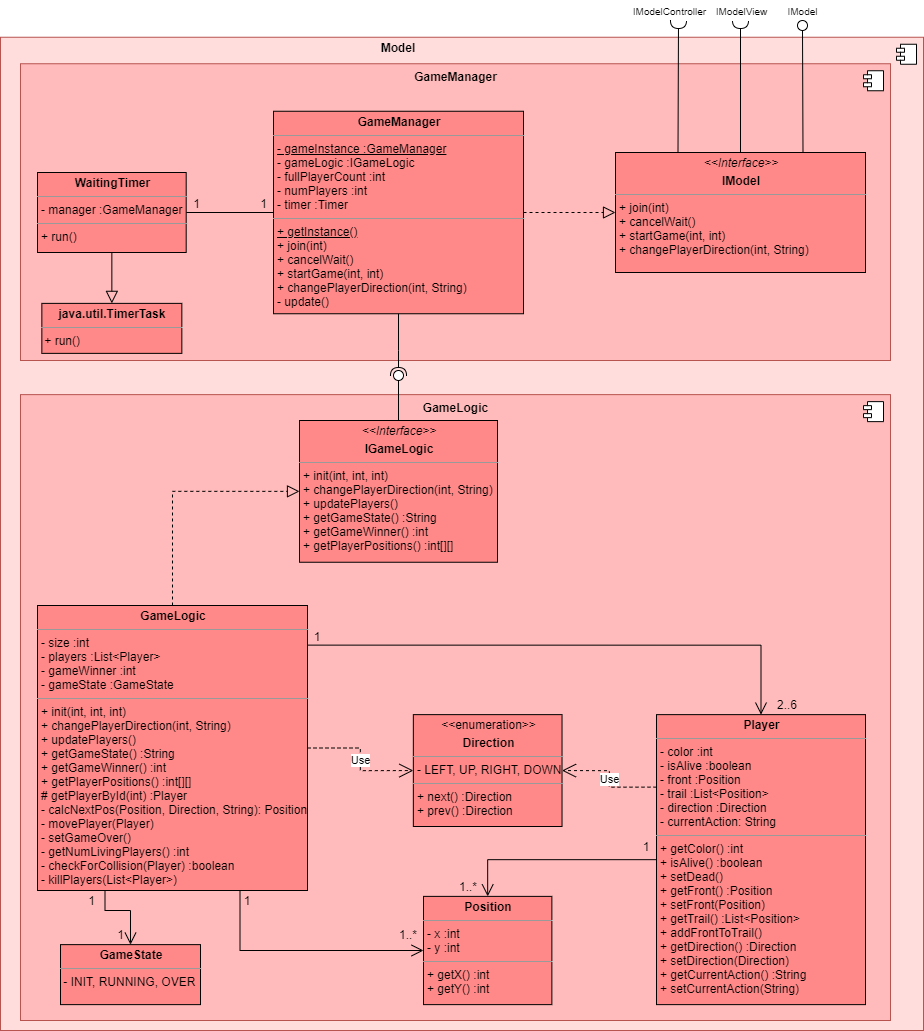
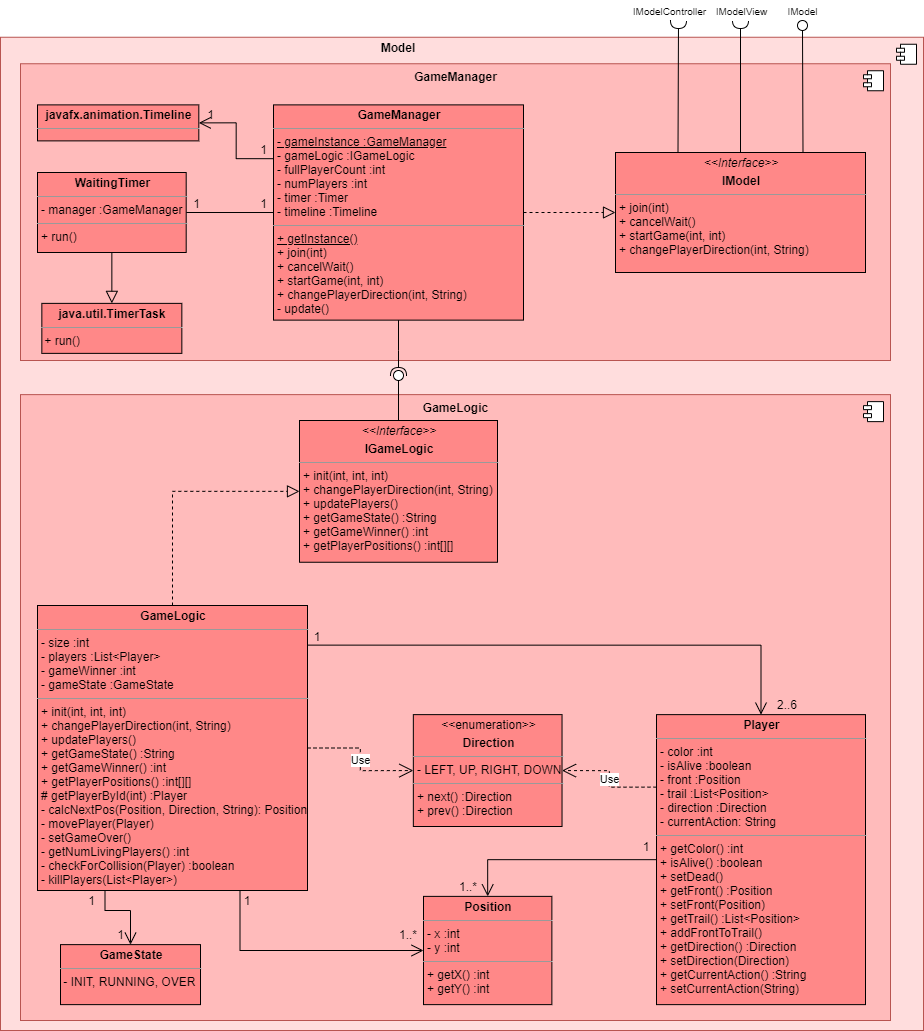
added gameSpeed and timeline in code, diagrams, doc

Changed region(s): [[0.2424, 0.0931, 0.5758, 0.3104], [0.0303, 0.0931, 0.2424, 0.1552]]

diff --git a/src/test/java/de/hawh/beta3/application/game/model/gamelogic/GameLogicTest.java b/src/test/java/de/hawh/beta3/application/game/model/gamelogic/GameLogicTest.java
@@ -16,7 +16,7 @@ class GameLogicTest {
     @BeforeEach
     void setUp() {
         gameLogic = new GameLogic();
-        gameLogic.init(4, 40, 3);
+        gameLogic.init(4, 40);
         players = gameLogic.getPlayerPositions();
     }
 
@@ -30,7 +30,7 @@ class GameLogicTest {
         assertEquals(startingPos.stream().distinct().count(), startingPos.size());
 
         //6 players
-        gameLogic.init(6, 40, 3);
+        gameLogic.init(6, 40);
         players = gameLogic.getPlayerPositions();
 
         startingPos = new ArrayList<>();
@@ -49,7 +49,7 @@ class GameLogicTest {
         assertEquals(startingPos.get(3), new Position(19, 39));
 
         //3 players size 53
-        gameLogic.init(4, 53, 3);
+        gameLogic.init(4, 53);
         players = gameLogic.getPlayerPositions();
         startingPos = new ArrayList<>();
         for (int[] p : players) startingPos.add(new Position(p[1], p[2]));
@@ -58,7 +58,7 @@ class GameLogicTest {
         assertEquals(startingPos.get(2), new Position(26, 0));
 
         //6 players size 40
-        gameLogic.init(6, 40, 3);
+        gameLogic.init(6, 40);
         players = gameLogic.getPlayerPositions();
         startingPos = new ArrayList<>();
         for (int[] p : players) startingPos.add(new Position(p[1], p[2]));
@@ -154,7 +154,7 @@ class GameLogicTest {
          * x x 2 x 1
          * x x x 1 1
          */
-        gameLogic.init(3, 5, 3);
+        gameLogic.init(3, 5);
         players = gameLogic.getPlayerPositions();
         gameLogic.changePlayerDirection(0, "left");
         gameLogic.changePlayerDirection(1, "left");
@@ -178,7 +178,7 @@ class GameLogicTest {
          * x x 3 3 x
          * x x 3 x x
          */
-        gameLogic.init(4, 5, 3);
+        gameLogic.init(4, 5);
         players = gameLogic.getPlayerPositions();
         gameLogic.updatePlayers();  //tick 1
         gameLogic.changePlayerDirection(2, "right");
@@ -196,7 +196,7 @@ class GameLogicTest {
     @Test
     void updatePlayersPlayerWinCollision() {
         //one player steers right twice and drives into wall --> other player wins
-        gameLogic.init(2, 40, 3);
+        gameLogic.init(2, 40);
         players = gameLogic.getPlayerPositions();
         gameLogic.changePlayerDirection(0, "right");
         gameLogic.updatePlayers();
@@ -211,7 +211,7 @@ class GameLogicTest {
     @Test
     void updatePlayersPlayerWinTwoCollisions() {
         //players 0 and 1 drive into one another --> player 2 wins
-        gameLogic.init(3, 5, 3);
+        gameLogic.init(3, 5);
         players = gameLogic.getPlayerPositions();
         gameLogic.updatePlayers();  //tick 1
         gameLogic.changePlayerDirection(2, "left"); //player 2 is clever
@@ -227,7 +227,7 @@ class GameLogicTest {
     @Test
     void updatePlayersTie() {
         //every player drives into one another
-        gameLogic.init(4, 5, 3);
+        gameLogic.init(4, 5);
         gameLogic.updatePlayers();  //tick 1
         gameLogic.updatePlayers();  //tick 2 --> collision in the middle so big its a Karambolage
         assertSame(gameLogic.getGameState(), "OVER");
@@ -243,7 +243,7 @@ class GameLogicTest {
          * x x x 3 3 x x
          * x x x 3 3 x x
          */
-        gameLogic.init(5, 7, 3);
+        gameLogic.init(5, 7);
         gameLogic.changePlayerDirection(0, "left");
         gameLogic.changePlayerDirection(4, "left");
         gameLogic.updatePlayers();  //tick 1

diff --git a/src/main/java/de/hawh/beta3/application/game/model/gamemanager/GameManager.java b/src/main/java/de/hawh/beta3/application/game/model/gamemanager/GameManager.java
@@ -8,9 +8,10 @@ import de.hawh.beta3.application.game.view.IModelView;
 import java.util.Timer;
 import java.util.TimerTask;
 
-//import javafx.animation.Animation;
-//import javafx.animation.KeyFrame;
-//import javafx.animation.Timeline;
+import javafx.animation.Animation;
+import javafx.animation.KeyFrame;
+import javafx.animation.Timeline;
+import javafx.util.Duration;
 
 public class GameManager implements IModel {
     private static GameManager gameInstance = new GameManager();
@@ -20,7 +21,7 @@ public class GameManager implements IModel {
     private int fullPlayerCount;
     private int numPlayers;
     private Timer timer = new Timer();
-    //private Timeline timeline
+    private Timeline timeline;
 
     private GameManager() {
         gameLogic = new GameLogic();
@@ -83,9 +84,12 @@ public class GameManager implements IModel {
      */
     @Override
     public void startGame(int size, int gameSpeed) {
-        gameLogic.init(numPlayers, size, gameSpeed);
-        //timeline = new Timeline(new KeyFrame(Duration.millis(200), e -> update()));
-        //timeline.setCycleCount(Animation.INDEFINITE);
+        gameLogic.init(numPlayers, size);
+        for (int[] p : gameLogic.getPlayerPositions()) {    //send starting positions to view
+            //modelView.updatePlayer(p[0], p[1], p[2], p[3]);
+        }
+        timeline = new Timeline(new KeyFrame(Duration.millis(gameSpeed), e -> update()));
+        timeline.setCycleCount(Animation.INDEFINITE);
     }
 
     /**
@@ -111,6 +115,7 @@ public class GameManager implements IModel {
             }
         } else if (gameLogic.getGameState().equals("OVER")) {
             //modelController.endGame(gameLogic.getGameWinner());
+            timeline.stop();
         }
     }
 }

diff --git a/src/main/java/de/hawh/beta3/application/game/model/gamelogic/GameLogic.java b/src/main/java/de/hawh/beta3/application/game/model/gamelogic/GameLogic.java
@@ -16,13 +16,11 @@ public class GameLogic implements IGameLogic {
      *
      * @param numPlayers number of Players (2-6)
      * @param size       size of game field
-     * @param gameSpeed  speed of game
      */
     @Override
-    public void init(int numPlayers, int size, int gameSpeed) {
+    public void init(int numPlayers, int size) {
         this.size = size;
         players = new ArrayList<>();
-        //this.gameSpeed = gameSpeed;
         Position[] startingPos = getStartingPositions(numPlayers);
         Direction[] startingDir = getStartingDirections(numPlayers);
 
@@ -30,7 +28,6 @@ public class GameLogic implements IGameLogic {
             Player p = new Player(i, startingPos[i], startingDir[i]);
             p.addFrontToTrail();
             players.add(p);
-            //IModelView.updatePlayer(i, p.getFront().getX(), p.getFront().getY());
         }
 
         gameState = GameState.RUNNING;

diff --git a/src/main/java/de/hawh/beta3/application/game/model/gamelogic/IGameLogic.java b/src/main/java/de/hawh/beta3/application/game/model/gamelogic/IGameLogic.java
@@ -9,9 +9,8 @@ public interface IGameLogic {
      *
      * @param numPlayers number of Players (2-6)
      * @param size       size of game field
-     * @param gameSpeed  speed of game
      */
-    void init(int numPlayers, int size, int gameSpeed);
+    void init(int numPlayers, int size);
 
     /**
      * Method for changing direction of a player with <code>id</code>
